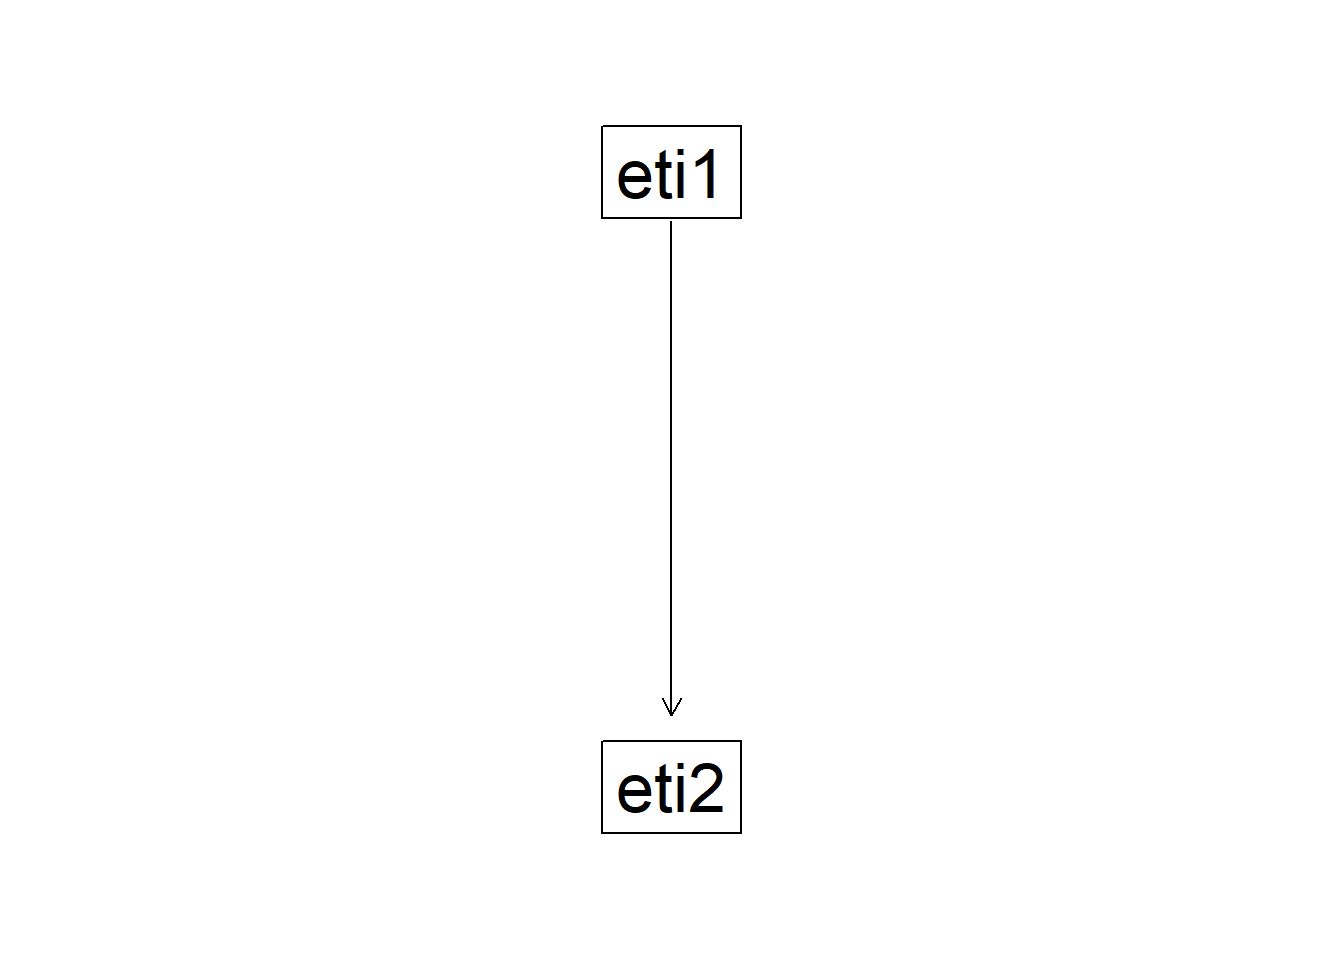
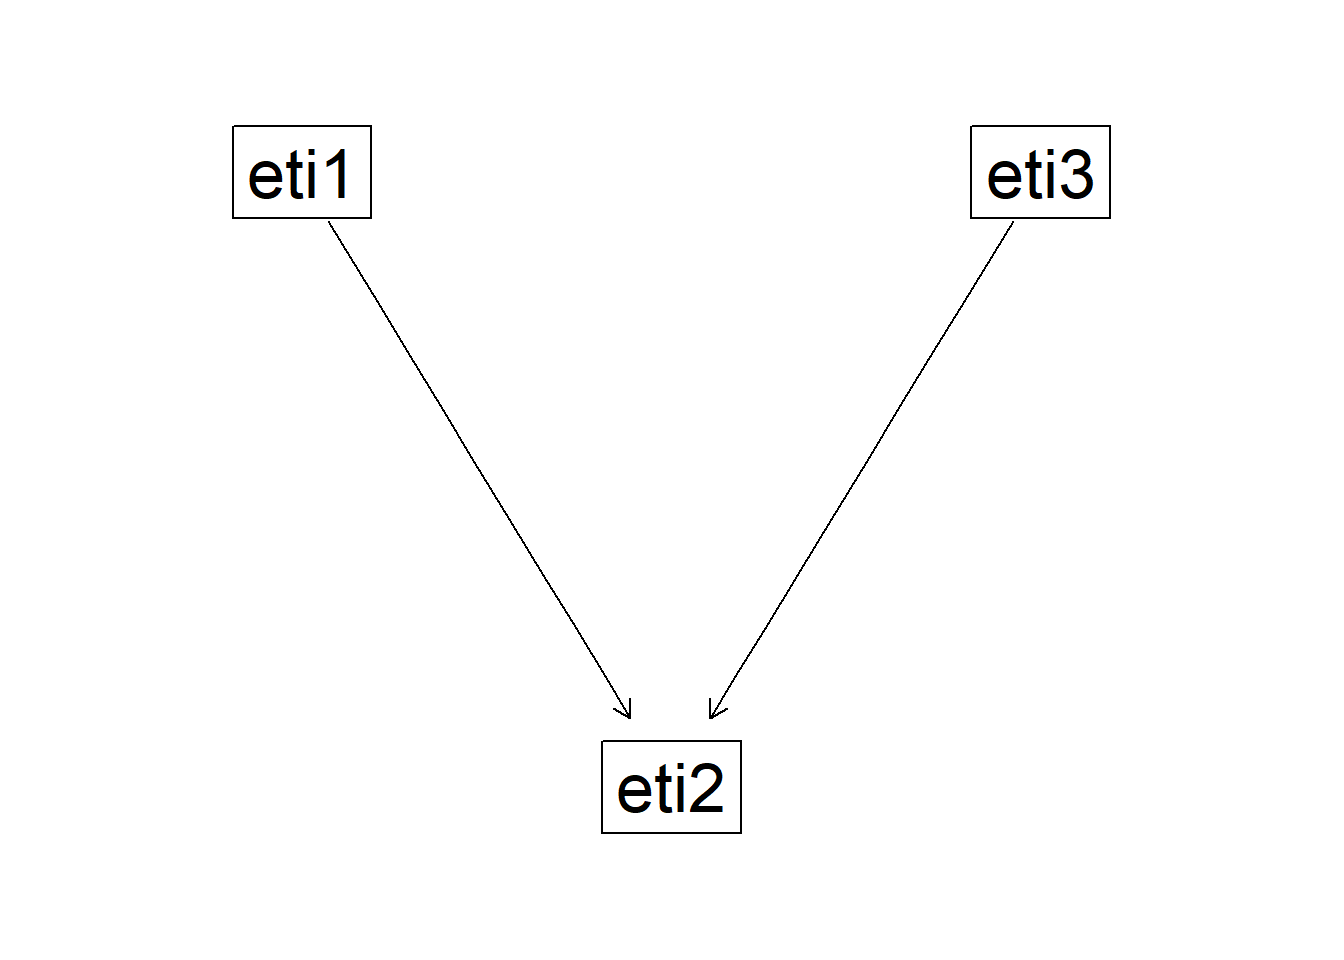
taller costa

Changed region(s): [[0.7188, 0.1562, 0.8125, 0.2188], [0.4375, 0.1562, 0.5312, 0.2188], [0.1875, 0.1562, 0.2812, 0.2188]]

diff --git a/_book/miro-costas.html b/_book/miro-costas.html
@@ -271,7 +271,7 @@ pre > code.sourceCode > span > a:first-child::before { text-decoration: underlin
 <div class="cell-output cell-output-stdout">
 <pre><code>
 ── R CMD build ─────────────────────────────────────────────────────────────────
-* checking for file 'C:\Users\equih\AppData\Local\Temp\RtmpQlMKQp\remotes2dccebb7c1d\equihuam-miro2bayesNet-3ed9e96/DESCRIPTION' ... OK
+* checking for file 'C:\Users\equih\AppData\Local\Temp\RtmpmYCMGF\remotes368869324f37\equihuam-miro2bayesNet-3ed9e96/DESCRIPTION' ... OK
 * preparing 'miro2bayes':
 * checking DESCRIPTION meta-information ... OK
 * checking for LF line-endings in source and make files and shell scripts
@@ -306,11 +306,11 @@ pre > code.sourceCode > span > a:first-child::before { text-decoration: underlin
 <pre><code>Miro board origin:      Costa arenosa
 Is it a TRUE DAG?:      Graph is acyclic
 Number of sticky notes: 3
-Nodes without var:      1
-Number of linked nodes: 2
+Nodes without var:      0
+Number of linked nodes: 3
 Duplicated nodes:       0
-Number of arcs:         1
-Well connected arcs:    1
+Number of arcs:         2
+Well connected arcs:    2
 Numb. Loose arcs:       0
 Duplicated arcs:        0</code></pre>
 </div>
@@ -325,14 +325,14 @@ Duplicated arcs:        0</code></pre>
   Random/Generated Bayesian network
 
   model:
-   [eti1][eti2|eti1] 
-  nodes:                                 2 
-  arcs:                                  1 
+   [eti1][eti3][eti2|eti1:eti3] 
+  nodes:                                 3 
+  arcs:                                  2 
     undirected arcs:                     0 
-    directed arcs:                       1 
-  average markov blanket size:           1.00 
-  average neighbourhood size:            1.00 
-  average branching factor:              0.50 
+    directed arcs:                       2 
+  average markov blanket size:           2.00 
+  average neighbourhood size:            1.33 
+  average branching factor:              0.67 
 
   generation algorithm:                  Empty </code></pre>
 </div>
